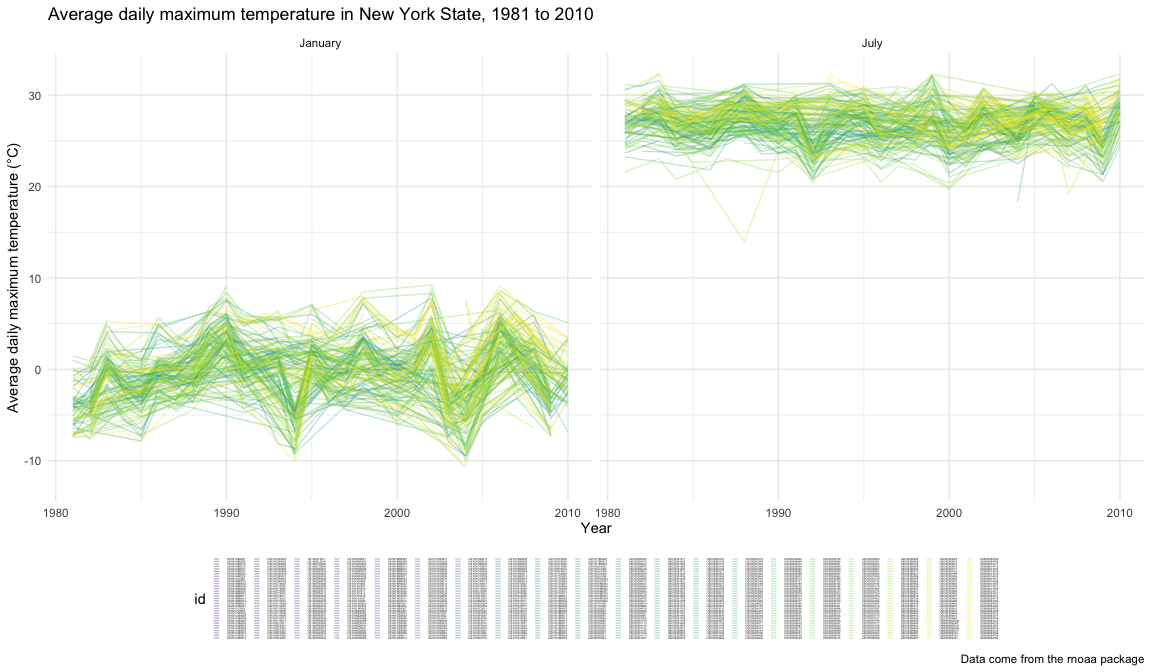
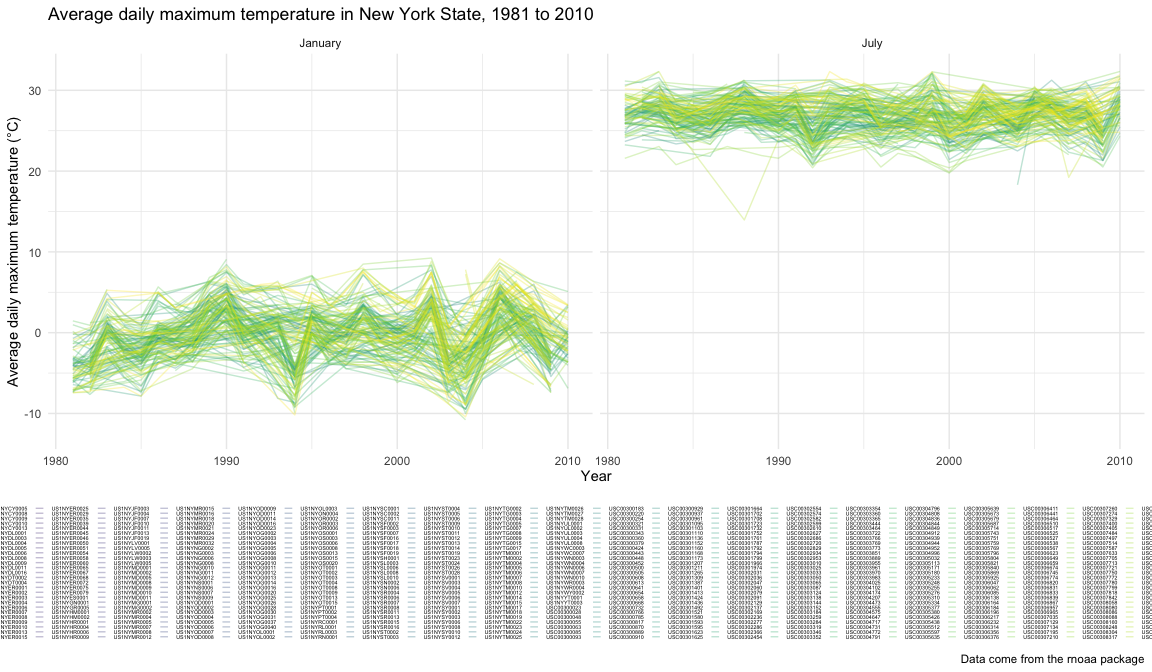
knitr kable tables and legend config

diff --git a/p8105_hw3_my2731.md b/p8105_hw3_my2731.md
@@ -236,10 +236,15 @@ accel_data = accel_data %>%
 
 accel_data %>% 
   select(week:total_activity) %>% 
+  rename("Week" = week,
+         "Day ID" = day_id,
+         "Day" = day,
+         "Weekend" = weekend,
+         "Total Activity" = total_activity) %>% 
   knitr::kable()
 ```
 
-| week | day_id | day       | weekend | total_activity |
+| Week | Day ID | Day       | Weekend | Total Activity |
 |-----:|-------:|:----------|:--------|---------------:|
 |    1 |      1 | Friday    | FALSE   |      480542.62 |
 |    1 |      2 | Monday    | FALSE   |       78828.07 |
@@ -417,23 +422,20 @@ ny_noaa
 ny_noaa %>% 
   group_by(snow) %>% 
   summarise(n_obs = n()) %>% 
-  arrange(desc(n_obs))
+  arrange(desc(n_obs)) %>% 
+  head(5) %>% 
+  rename("Snowfall (mm)" = snow,
+         "# observations" = n_obs) %>% 
+  knitr::kable()
 ```
 
-    ## # A tibble: 282 × 2
-    ##     snow   n_obs
-    ##    <int>   <int>
-    ##  1     0 2008508
-    ##  2    NA  381221
-    ##  3    25   31022
-    ##  4    13   23095
-    ##  5    51   18274
-    ##  6    76   10173
-    ##  7     8    9962
-    ##  8     5    9748
-    ##  9    38    9197
-    ## 10     3    8790
-    ## # … with 272 more rows
+| Snowfall (mm) | \# observations |
+|--------------:|----------------:|
+|             0 |         2008508 |
+|            NA |          381221 |
+|            25 |           31022 |
+|            13 |           23095 |
+|            51 |           18274 |
 
 For snowfall, the most commonly observed values are `0`, `NA`, and `25`,
 respectively. Intuitively, this is reasonable because snow does not fall
@@ -459,10 +461,10 @@ janjul_p = ny_noaa %>%
     caption = "Data come from the rnoaa package"
   ) + 
   viridis::scale_color_viridis(discrete = TRUE) + 
-  theme(legend.key.height = unit(0.02, "in"),
-        legend.key.width = unit(0.07, "in"), 
-        legend.text = element_text(size = 2)) + 
-  guides(col = guide_legend(ncol = 20)) +
+  theme(legend.key.height = unit(0.05, "in"),
+        legend.key.width = unit(0.1, "in"), 
+        legend.text = element_text(size = 4)) + 
+  guides(col = guide_legend(ncol = 25)) +
   facet_grid(. ~ month, scales = "free") 
 
 janjul_p
@@ -509,6 +511,7 @@ snowfall_p = ny_noaa %>%
   theme(legend.text = element_text(size = 6), 
         legend.key.size = unit(0.15, "in"),
         plot.title = element_text(size = 11)) + 
+  guides(col = guide_legend(ncol = 6)) +
   viridis::scale_colour_viridis(discrete = TRUE, option = "plasma")
 
 weather_plots = tmax_tmin_p + snowfall_p
